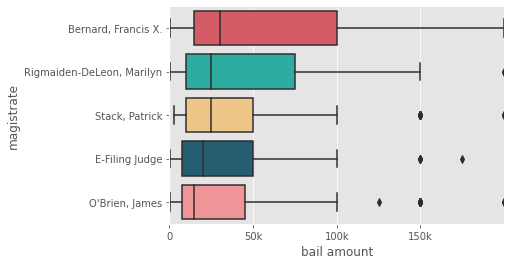
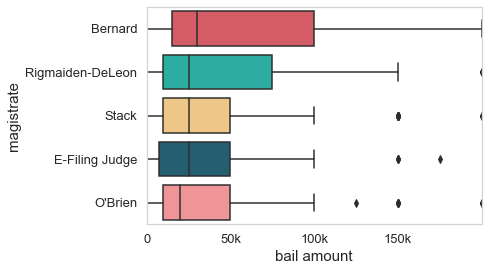
edit magistrate page of dashboard

diff --git a/dashboard/magistrate.py b/dashboard/magistrate.py
@@ -2,43 +2,65 @@ import streamlit as st
 from PIL import Image
 
 def app():
+
     st.title('Breakdown by Magistrate')
-    st.write('In progress')
+    st.write('This section provides a summary of how bail type and bail amount depend on the person setting the bail (hereby referred to as magistrate).')
 
     ### 2020 Summary plots
 
-    # !!!!! TODO !!!!!
     # Explain selection of magistrates (Those who handled more than 500 cases)
     # Some timeline (Many were involved consistently throughout the year. Some were seasonal)
     # Explain 'Others': Those who set fewer than 500 cases. Total number of those labeled as "Others"
 
     # number of cases
-    st.header("Year End Summary by Magistrate")
+    st.header("1. Year-End Summary by Magistrate")
     st.subheader("Number of cases handled by each magistrate")
+
+    _, col, _ = st.beta_columns([1,2,1])
     image = Image.open('figures/magistrate_case_count.png')
-    st.image(image)
+    col.image(image)
+    st.write("In the year 2020, bail was set by 625 different people. We provide a summary of the bail type and bail amount for cases handled by the 9 magistrates who handled more than 300 cases in year 2020.")
+
     # bail type
     st.subheader("Percentage of bail type for each magistrate")
     image = Image.open('figures/magistrate_type_summary.png')
     st.image(image, use_column_width=True)
+    st.write("The above pie chart shows the percentage of bail types set by each magistrate. \
+            While there isn't a huge variability across magistrates, we can see that E-filing judges set fewer monetary bail than other magistrates.")
+
     # bail amount
     st.subheader("Monetary bail amount set by each magistrate")
     image = Image.open('figures/magistrate_amount_summary.png')
-    st.image(image)
+    _, col, _ = st.beta_columns([1, 5, 1])
+    col.image(image, use_column_width = True)
+    st.write("The above box plot compares the monetary bail amount set by different magistrates. \
+            For each magistrate, the vertical line in the colored box represents the median bail amount set by that magistrate. \
+            The colored boxes represent the 25% to 75% range of the bail amount set by the magistrate. The dots represent outliers.")
+    st.write("On average (median), the bail amount set by Connor, Bernard, and Rigmaiden-DeLeon ($50k) is higher than bail amount set by others ($25k). \
+            Moreover, Connor and Bernard seem to have set a wider range of bail amounts than other magistrates. ")
+    
 
     ### Comparison controling for offense types 
-    st.header("Analysis while controling for offense types")
-
-    # !!!!! TODO !!!!!
-    # Explain the matched analysis. How many cases are sampled for the analysis
-    # Explain the selection of 5 magistrates (those who handled more than 1000 cases)
-    # Write interpretations
+    st.header("2. Analysis while controlling for offense types")
+    st.write("While the above figures provide a useful year-end summary, they do not provide a fair comparison of the magistrates. \
+            In particular, the differences among magistrates may stem from the fact that some magistrates may have handled more cases with more severe charges.")
+            
+    st.write("We compared the bail type and bail amount set by the magistrates while controlling for the difference in the charges. \
+            We conducted a matched study where we sampled cases with the same charges that were handled by five different magistrates (Bernard, Rigmaiden-DeLeon, Stack, E-Filing Judge, and O'Brien). \
+            We performed the matched study on only the five magistrates that handled more than 1000 cases in year 2020. ")
+            
+    st.write("The following results were obtained from the 3490 cases (698 per magistrate) that were sampled. Ideally, there shouldn't be any noticable difference across magistrates.")
     
     # bail type
     st.subheader("Percentage of bail type for each magistrate")
     image = Image.open('figures/magistrate_matched_type.png')
     st.image(image, use_column_width=True)
+    st.write("When we control for the offense types, magistrates set monetary bail to similar number of cases.")
+
     # bail amount
     st.subheader("Monetary bail amount set by each magistrate")
+    _, col, _ = st.beta_columns([1, 5, 1])
     image = Image.open('figures/magistrate_matched_amount.png')
-    st.image(image)
+    col.image(image, use_column_width = True)
+    st.write("Even when we control for the offense types, we see a difference in the monetary bail amount across magistrates.\
+            In particular, Bernard and Rigmaiden-DeLeon set higher bail amounts than Stack, E-filing Judge, and O'Brien.")
